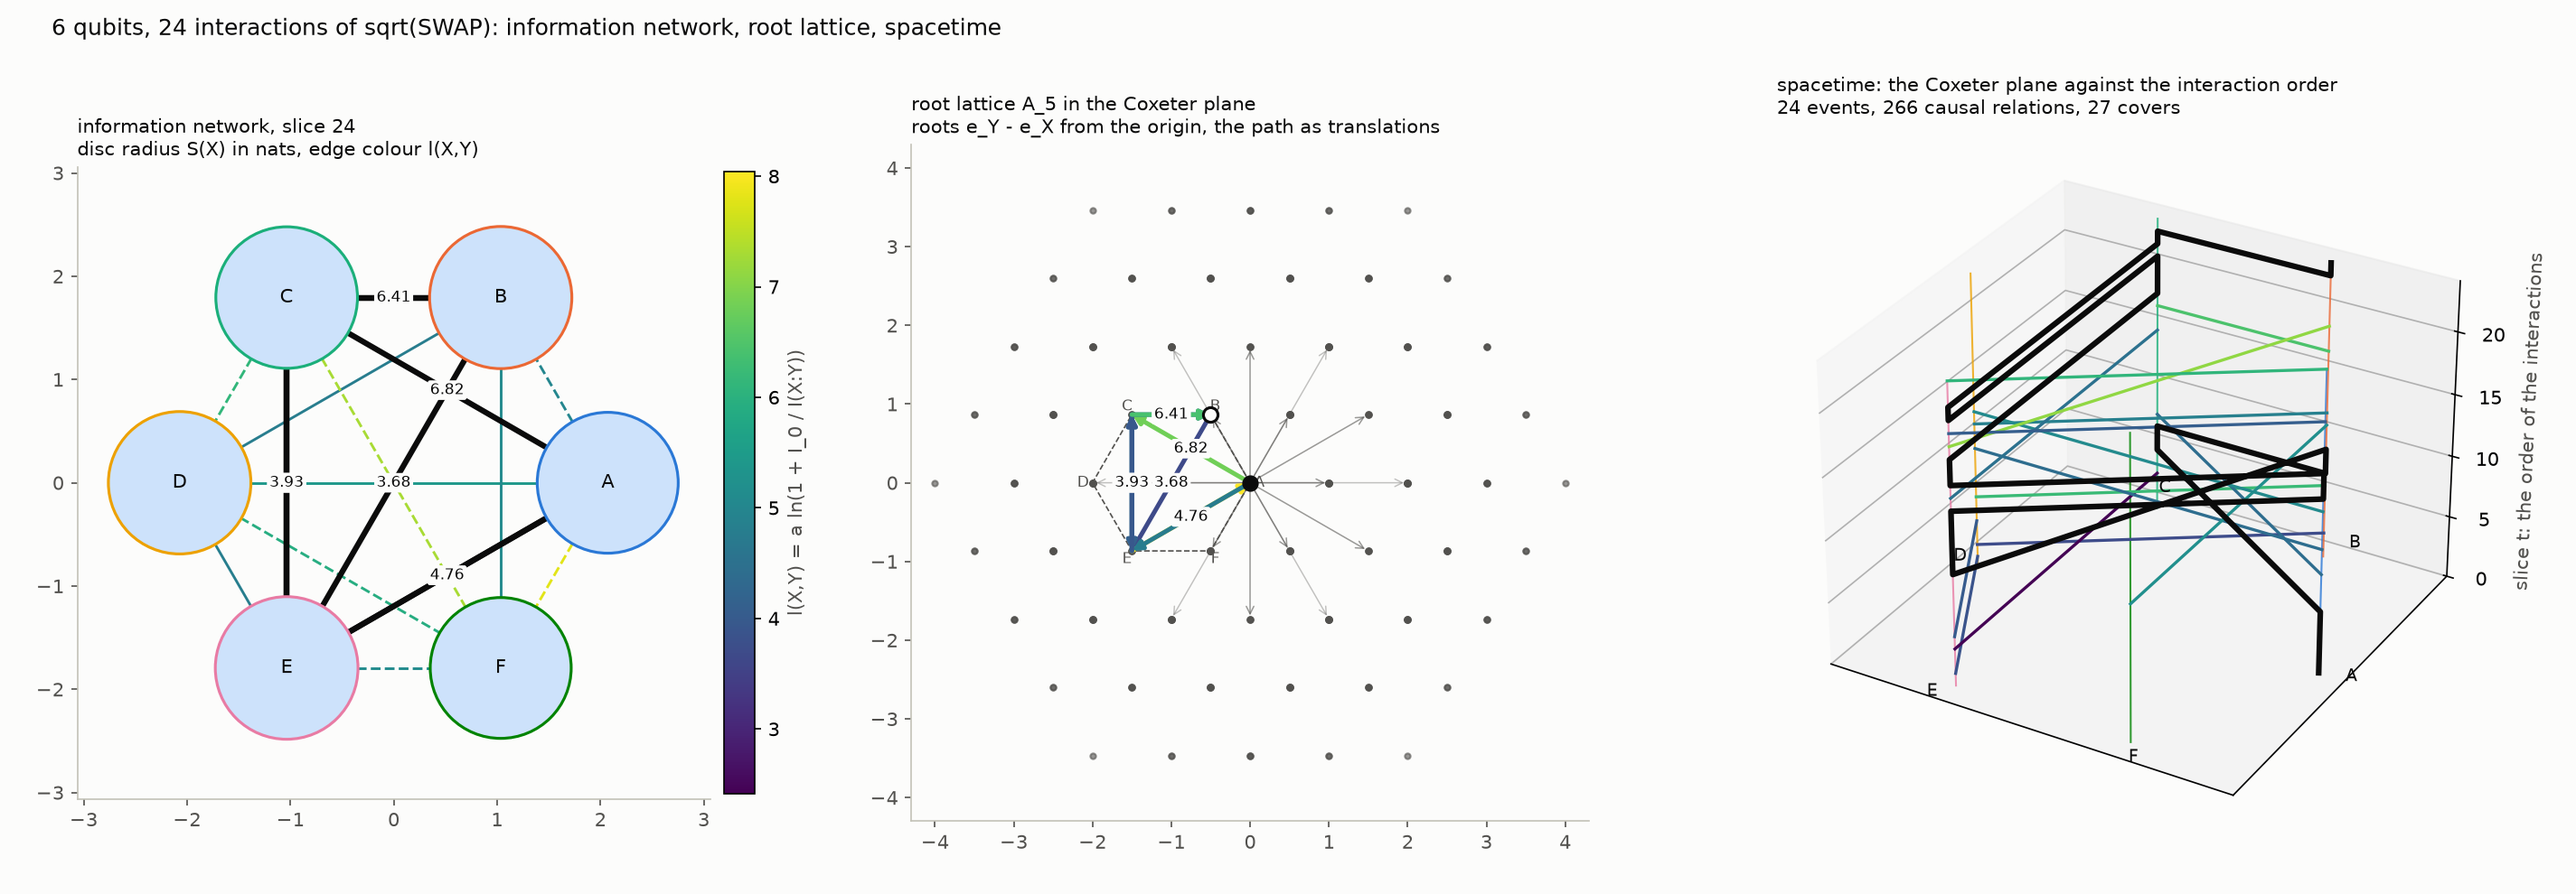
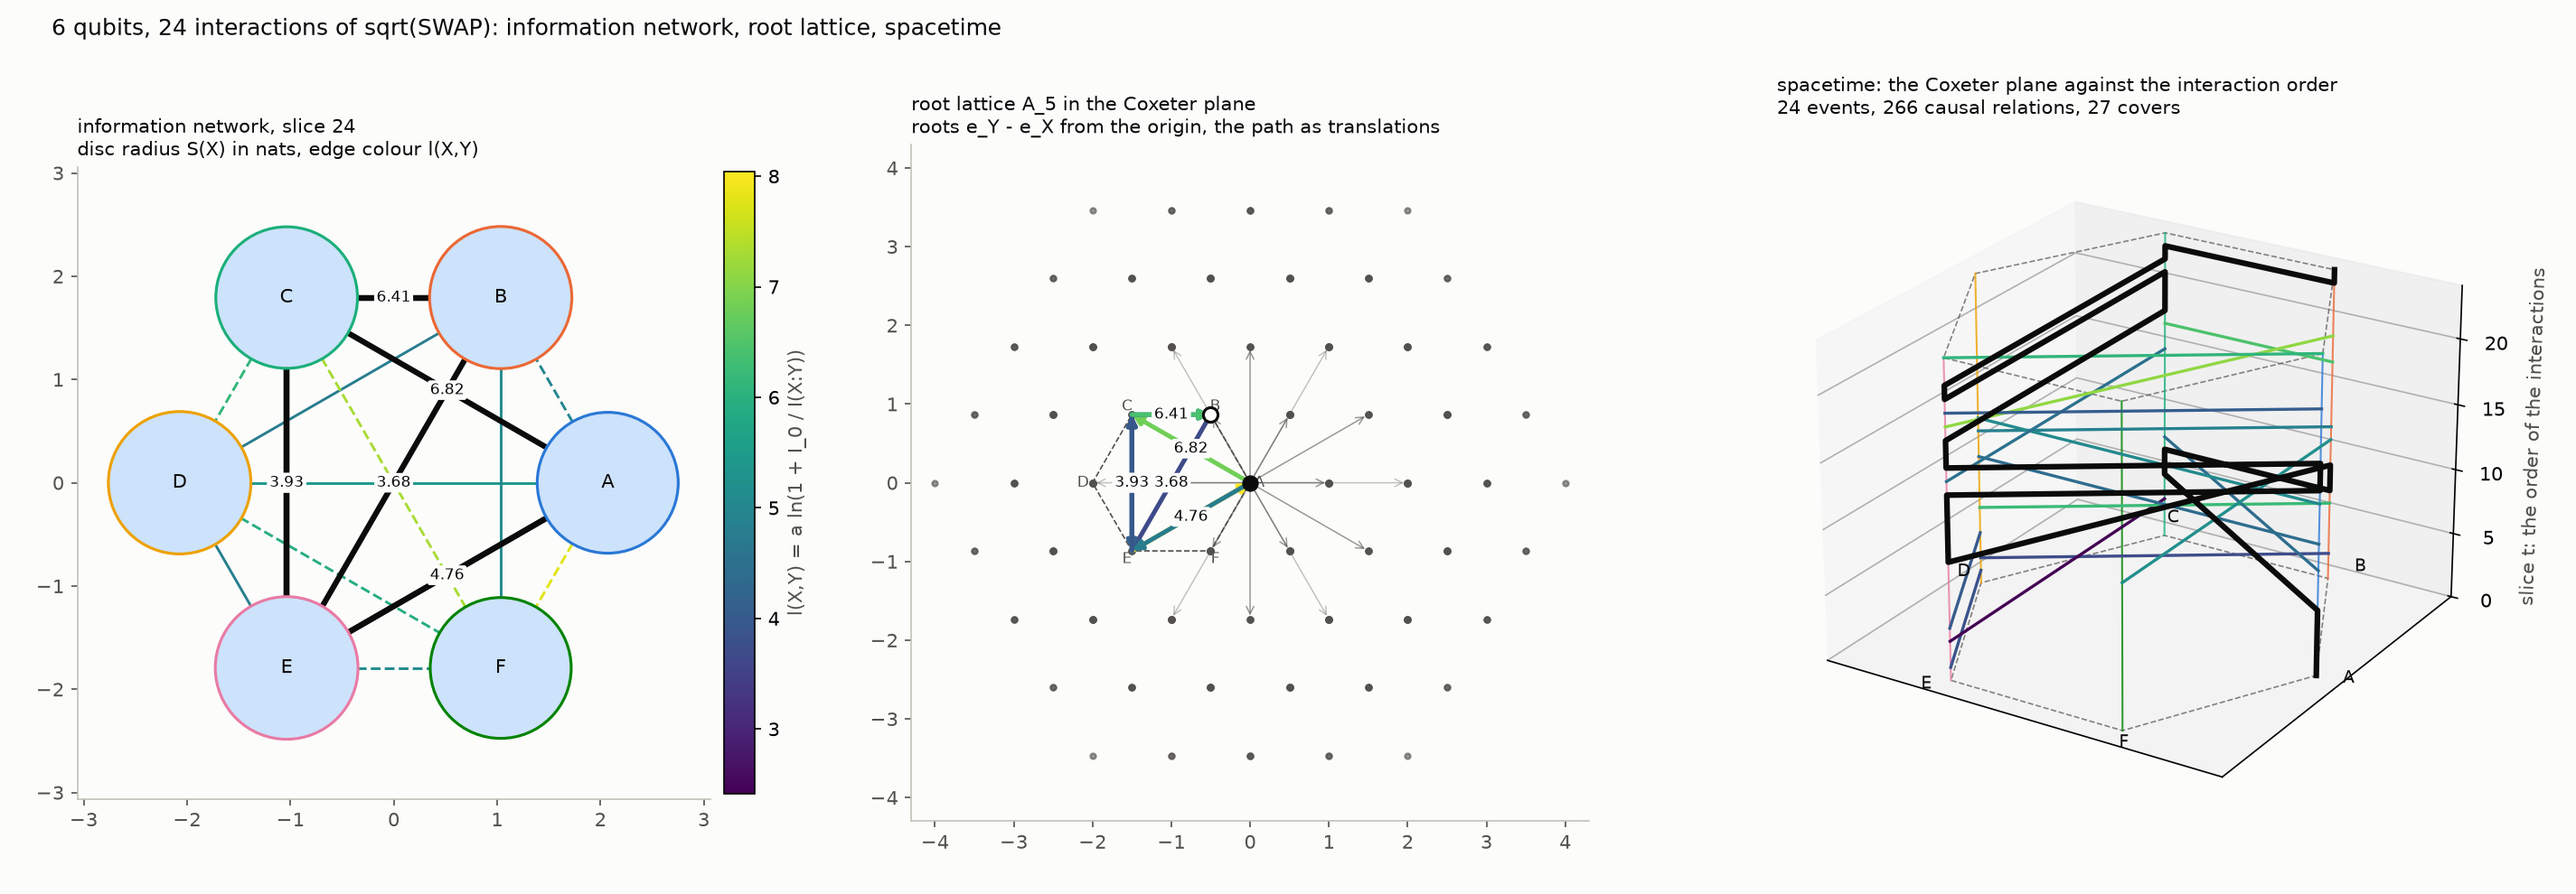
feat(drivers): anchor the spacetime panel on the prism of the weights
Refs #1452.

The spacetime panel draws the ring of weights at the first and last
slice and is viewed from a fixed elevation, so the Coxeter plane and the
worldlines read as a prism rather than as loose lines.

diff --git a/tessera/drivers/root_lattice_spacetime.py b/tessera/drivers/root_lattice_spacetime.py
@@ -407,6 +407,11 @@ def draw(rep, title, save=None):
     # (3) the spacetime
     ax = fig.add_subplot(grid[2], projection="3d")
     ax.set_facecolor(bp.SURFACE)
+    ax.view_init(elev=24, azim=-58)
+    ring = np.vstack([w, w[:1]])
+    for z in (0, T):
+        ax.plot(ring[:, 0], ring[:, 1], [z] * len(ring), color=bp.INK_MUTED, linewidth=0.8,
+                linestyle="--", alpha=0.7)
     for q in range(n):
         ax.plot([w[q, 0]] * 2, [w[q, 1]] * 2, [0, T], color=palette[q % len(palette)],
                 linewidth=1.0, alpha=0.8)
